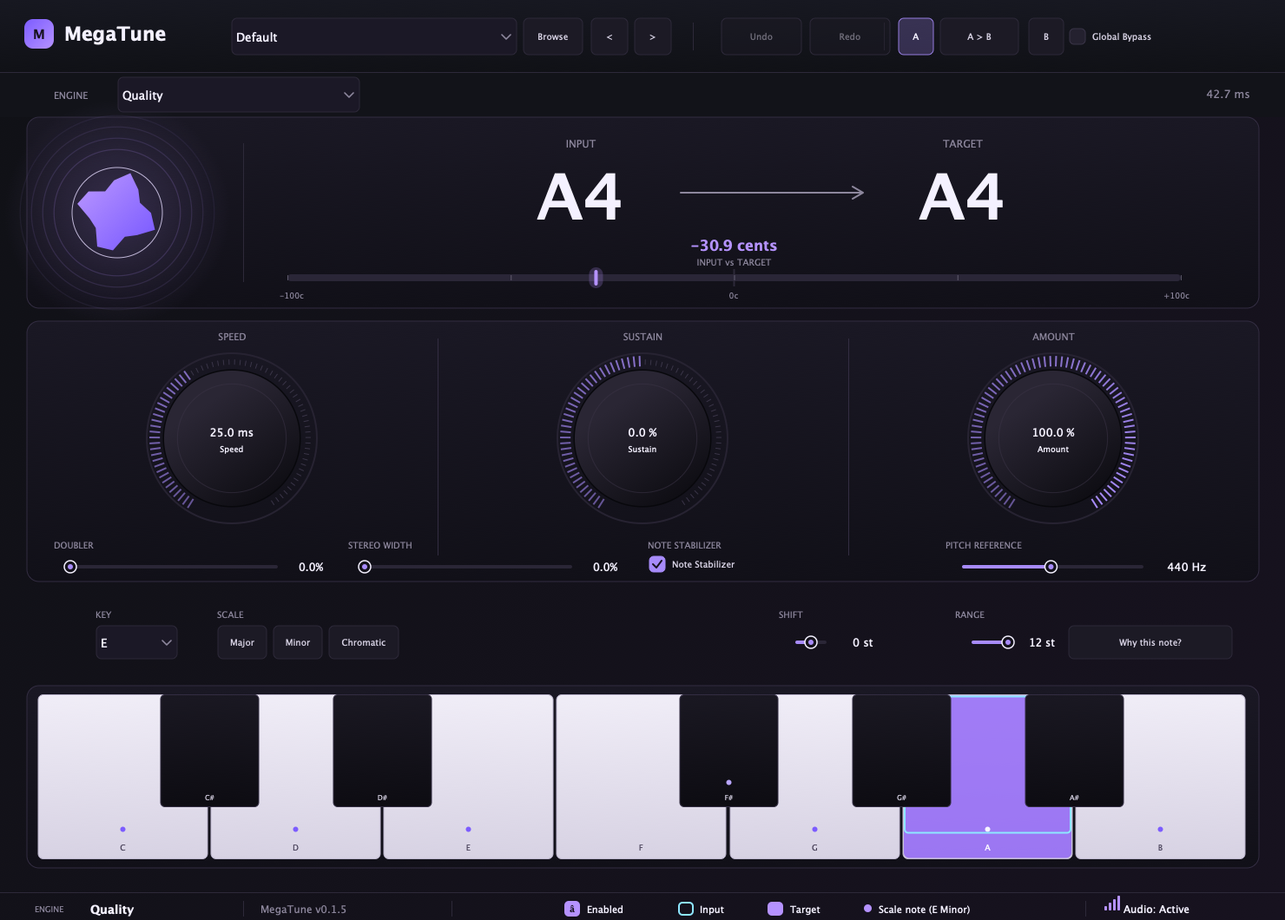
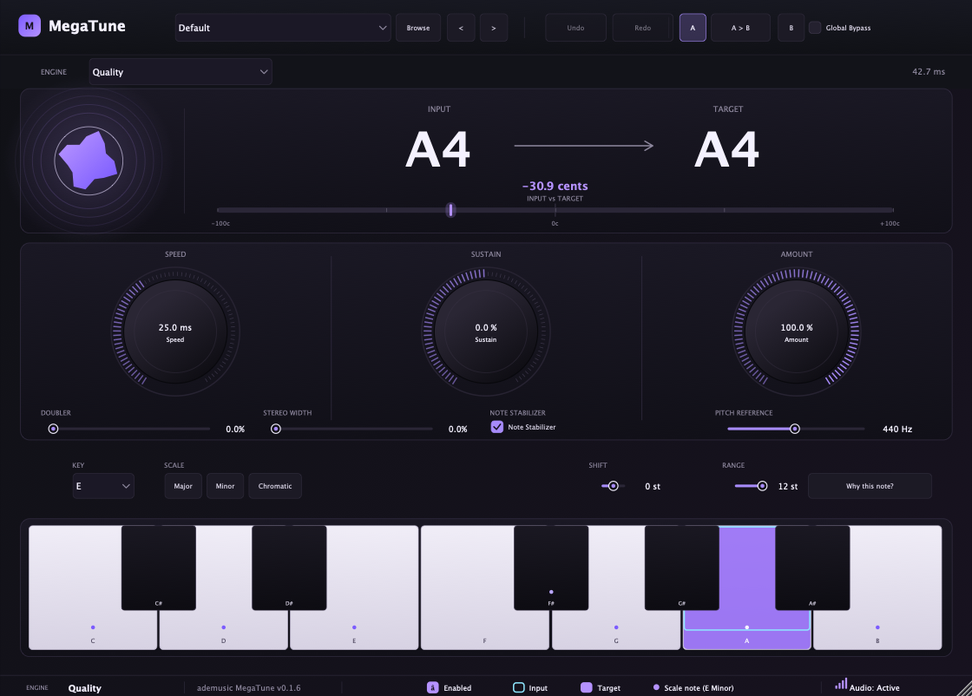
feat: resizable editor and ademusic identity for 0.1.6

diff --git a/app/vst3/Plugin.cpp b/app/vst3/Plugin.cpp
@@ -409,15 +409,21 @@ private:
  MegaTune& proc;juce::TextButton close{"X"},cancel{"Cancel"},load{"Load preset"};juce::TextEditor search;
  juce::Component listContent;juce::Viewport list;juce::OwnedArray<PresetRow> rows;
 };
+class Canvas final:public juce::Component {
+public:
+ std::function<void(juce::Graphics&)> onPaint;std::function<void()> onResized;
+ void paint(juce::Graphics& g)override{if(onPaint)onPaint(g);}
+ void resized()override{if(onResized)onResized();}
+};
 class Editor final:public juce::AudioProcessorEditor,private juce::Timer {
- TunerLook tunerLook;MegaTune& proc;juce::Slider speed,sustain,amount,doubler,width,reference,shift,range;juce::ComboBox presets;juce::ToggleButton bypass{"Global Bypass"},stabilize{"Note Stabilizer"},lowLatency{"Low Latency"};juce::ComboBox key;int displayedKey=-1;std::unique_ptr<juce::AudioProcessorValueTreeState::ComboBoxAttachment> keyAttachment;juce::TextButton major{"Major"},minor{"Minor"},chromatic{"Chromatic"};
+ TunerLook tunerLook;Canvas canvas;MegaTune& proc;juce::Slider speed,sustain,amount,doubler,width,reference,shift,range;juce::ComboBox presets;juce::ToggleButton bypass{"Global Bypass"},stabilize{"Note Stabilizer"},lowLatency{"Low Latency"};juce::ComboBox key;int displayedKey=-1;std::unique_ptr<juce::AudioProcessorValueTreeState::ComboBoxAttachment> keyAttachment;juce::TextButton major{"Major"},minor{"Minor"},chromatic{"Chromatic"};
  struct Sound {std::vector<float> values;int program=0;};
  juce::TextButton previous{"<"},next{">"},undo{"Undo"},redo{"Redo"},slotA{"A"},slotB{"B"},copyAB{"A > B"};juce::TextButton why{"Why this note?"},browse{"Browse"};bool showWhy=false;int selSeq=-1,selectedPc=-1,shownProgram=-1;HistoryPanel historyPanel;PresetBrowser presetBrowser;juce::Label experimental;juce::ComboBox enginePick;int shownEngine=-1;
  Sound comparison[2],observed;std::vector<Sound> past,future;int activeSlot=0;
  float animationTime=0,smoothedLevel=0;
  Sound capture()const{Sound sound;sound.program=proc.getCurrentProgram();for(auto* p:proc.getParameters())sound.values.push_back(p->getValue());return sound;}
  bool same(const Sound& a,const Sound& b)const{return a.program==b.program&&a.values==b.values;}
- void restore(const Sound& sound){proc.currentProgram=sound.program;auto& parameters=proc.getParameters();for(size_t i=0;i<sound.values.size()&&i<(size_t)parameters.size();++i){parameters[(int)i]->beginChangeGesture();parameters[(int)i]->setValueNotifyingHost(sound.values[i]);parameters[(int)i]->endChangeGesture();}observed=capture();repaint();}
+ void restore(const Sound& sound){proc.currentProgram=sound.program;auto& parameters=proc.getParameters();for(size_t i=0;i<sound.values.size()&&i<(size_t)parameters.size();++i){parameters[(int)i]->beginChangeGesture();parameters[(int)i]->setValueNotifyingHost(sound.values[i]);parameters[(int)i]->endChangeGesture();}observed=capture();canvas.repaint();}
  void remember(){auto now=capture();if(!same(now,observed)){past.push_back(observed);if(past.size()>100)past.erase(past.begin());future.clear();observed=now;}}
  void edit(const std::function<void()>& action){remember();auto before=capture();action();auto after=capture();if(!same(before,after)){past.push_back(before);future.clear();}observed=after;}
  void compare(int slot){comparison[activeSlot]=capture();activeSlot=slot;restore(comparison[slot]);past.clear();future.clear();}
@@ -427,14 +433,14 @@ class Editor final:public juce::AudioProcessorEditor,private juce::Timer {
  void setSelectedPc(int pc){if(pc==selectedPc)return;selectedPc=pc;for(auto& note:notes)note.repaint();}
  void refreshHistory(){const int seq=proc.historySeq.load();if(selSeq>=seq)selSeq=seq-1;if(selSeq<0&&seq>0)selSeq=seq-1;if(selSeq>=0&&seq-selSeq>16)selSeq=seq-1;historyPanel.refresh(proc,selSeq);setSelectedPc(historyPanel.actionPc);}
  void openHistory(){if(showWhy)return;showWhy=true;selSeq=proc.historySeq.load()-1;why.setButtonText("Close");why.setVisible(false);resized();
-  refreshHistory();historyPanel.setVisible(true);historyPanel.toFront(false);historyPanel.grabKeyboardFocus();repaint();}
+  refreshHistory();historyPanel.setVisible(true);historyPanel.toFront(false);historyPanel.grabKeyboardFocus();canvas.repaint();}
  void closeHistory(){if(!showWhy)return;showWhy=false;selSeq=-1;setSelectedPc(-1);historyPanel.setVisible(false);
-  why.setButtonText("Why this note?");why.setVisible(true);resized();why.grabKeyboardFocus();repaint();}
+  why.setButtonText("Why this note?");why.setVisible(true);resized();why.grabKeyboardFocus();canvas.repaint();}
  void setTargetEnabled(int pc,bool enable){const int root=(int)proc.value("key");const int degree=((pc-root)%12+12)%12;
   auto* parameter=proc.state.getParameter("note"+juce::String(degree));if(parameter==nullptr)return;
   if((parameter->getValue()>.5f)==enable)return;
   edit([&]{parameter->beginChangeGesture();parameter->setValueNotifyingHost(enable?1.f:0.f);parameter->endChangeGesture();});
-  refreshHistory();repaint();}
+  refreshHistory();canvas.repaint();}
  void timerCallback()override{animationTime+=1.f/30.f;smoothedLevel+=(juce::jlimit(0.f,1.f,proc.level.load()*2)-smoothedLevel)*.18f;
  const float detected=proc.pitch.load();const int target=megatune::currentTargetNote(proc);
  const int ip=detected>0?(((int)std::lround(detected))%12+12)%12:-1;
@@ -447,14 +453,14 @@ class Editor final:public juce::AudioProcessorEditor,private juce::Timer {
  experimental.setVisible(wantEngine==3||wantEngine==4);
  undo.setEnabled(!past.empty());redo.setEnabled(!future.empty());slotA.setToggleState(activeSlot==0,juce::dontSendNotification);slotB.setToggleState(activeSlot==1,juce::dontSendNotification);
  const int program=proc.getCurrentProgram();if(program!=shownProgram){shownProgram=program;presets.setSelectedId(program+1,juce::dontSendNotification);}
- syncKey();repaint(31,135,(showWhy?844:1419),220);repaint(0,1028,1480,32);}
+ syncKey();canvas.repaint(31,135,(showWhy?844:1419),220);canvas.repaint(0,1028,1480,32);}
  void setScale(bool isMinor,bool all){const int scaleMajor[]={0,2,4,5,7,9,11};const int scaleMinor[]={0,2,3,5,7,8,10};for(int i=0;i<12;++i){bool selected=all;for(int j=0;j<7;++j)if(i==(isMinor?scaleMinor[j]:scaleMajor[j]))selected=true;auto* p=proc.state.getParameter("note"+juce::String(i));p->beginChangeGesture();p->setValueNotifyingHost(selected?1.f:0.f);p->endChangeGesture();}}
 public:
  void tick(){timerCallback();}
- Editor(MegaTune& p):AudioProcessorEditor(p),proc(p),presetBrowser(p){setLookAndFeel(&tunerLook);setSize(1480,1060);auto setup=[&](juce::Slider& s,const char* id){addAndMakeVisible(s);s.setLookAndFeel(&tunerLook);s.textFromValueFunction=[](double value){return juce::String(value,1);};s.setNumDecimalPlacesToDisplay(1);s.setDoubleClickReturnValue(true,proc.state.getParameter(id)->convertFrom0to1(proc.state.getParameter(id)->getDefaultValue()));s.setColour(juce::Slider::thumbColourId,juce::Colour(0xffbb8de9));s.setSliderStyle(juce::Slider::RotaryHorizontalVerticalDrag);s.setTextBoxStyle(juce::Slider::TextBoxBelow,false,75,22);s.setColour(juce::Slider::rotarySliderFillColourId,juce::Colour(0xffc48cea));s.setColour(juce::Slider::rotarySliderOutlineColourId,juce::Colour(0xff343137));s.setColour(juce::Slider::textBoxOutlineColourId,juce::Colours::transparentBlack);s.setColour(juce::Slider::textBoxTextColourId,juce::Colour(0xfff4f1ff));s.setColour(juce::Slider::textBoxBackgroundColourId,juce::Colours::transparentBlack);auto attachment=std::make_unique<SA>(proc.state,id,s);s.textFromValueFunction=[](double value){return juce::String(value,1);};s.updateText();return attachment;};a=setup(speed,"speed");b=setup(sustain,"sustain");c=setup(amount,"amount");da=setup(doubler,"doubler");wa=setup(width,"width");ra=setup(reference,"reference");sa=setup(shift,"shift");rga=setup(range,"range");for(auto* slider:{&doubler,&width}){slider->setSliderStyle(juce::Slider::LinearHorizontal);slider->setTextBoxStyle(juce::Slider::TextBoxRight,false,38,20);slider->setTextValueSuffix("%");}reference.setSliderStyle(juce::Slider::LinearHorizontal);reference.setTextBoxStyle(juce::Slider::TextBoxRight,false,62,20);reference.setTextValueSuffix(" Hz");reference.textFromValueFunction=[](double v){return juce::String(v,0);};reference.updateText();doubler.setName("Doubler");width.setName("Width");reference.setName("Reference");shift.setSliderStyle(juce::Slider::LinearHorizontal);shift.setTextBoxStyle(juce::Slider::TextBoxRight,false,46,20);shift.setTextValueSuffix(" st");shift.textFromValueFunction=[](double v){return juce::String((int)std::lround(v));};shift.updateText();shift.setName("Shift");range.setSliderStyle(juce::Slider::LinearHorizontal);range.setTextBoxStyle(juce::Slider::TextBoxRight,false,40,20);range.setTextValueSuffix(" st");range.textFromValueFunction=[](double v){return juce::String((int)std::lround(v));};range.updateText();range.setName("Range");
- addAndMakeVisible(presets);for(int i=0;i<proc.getNumPrograms();++i)presets.addItem(proc.getProgramName(i),i+1);presets.setSelectedId(proc.getCurrentProgram()+1,juce::dontSendNotification);presets.onChange=[this]{edit([&]{proc.setCurrentProgram(presets.getSelectedId()-1);});};
+ Editor(MegaTune& p):AudioProcessorEditor(p),proc(p),presetBrowser(p){setLookAndFeel(&tunerLook);addAndMakeVisible(canvas);canvas.onPaint=[this](juce::Graphics& g){paintCanvas(g);};canvas.onResized=[this]{layoutCanvas();};setSize(1120,802);auto setup=[&](juce::Slider& s,const char* id){addAndMakeVisible(s);s.setLookAndFeel(&tunerLook);s.textFromValueFunction=[](double value){return juce::String(value,1);};s.setNumDecimalPlacesToDisplay(1);s.setDoubleClickReturnValue(true,proc.state.getParameter(id)->convertFrom0to1(proc.state.getParameter(id)->getDefaultValue()));s.setColour(juce::Slider::thumbColourId,juce::Colour(0xffbb8de9));s.setSliderStyle(juce::Slider::RotaryHorizontalVerticalDrag);s.setTextBoxStyle(juce::Slider::TextBoxBelow,false,75,22);s.setColour(juce::Slider::rotarySliderFillColourId,juce::Colour(0xffc48cea));s.setColour(juce::Slider::rotarySliderOutlineColourId,juce::Colour(0xff343137));s.setColour(juce::Slider::textBoxOutlineColourId,juce::Colours::transparentBlack);s.setColour(juce::Slider::textBoxTextColourId,juce::Colour(0xfff4f1ff));s.setColour(juce::Slider::textBoxBackgroundColourId,juce::Colours::transparentBlack);auto attachment=std::make_unique<SA>(proc.state,id,s);s.textFromValueFunction=[](double value){return juce::String(value,1);};s.updateText();return attachment;};a=setup(speed,"speed");b=setup(sustain,"sustain");c=setup(amount,"amount");da=setup(doubler,"doubler");wa=setup(width,"width");ra=setup(reference,"reference");sa=setup(shift,"shift");rga=setup(range,"range");for(auto* slider:{&doubler,&width}){slider->setSliderStyle(juce::Slider::LinearHorizontal);slider->setTextBoxStyle(juce::Slider::TextBoxRight,false,38,20);slider->setTextValueSuffix("%");}reference.setSliderStyle(juce::Slider::LinearHorizontal);reference.setTextBoxStyle(juce::Slider::TextBoxRight,false,62,20);reference.setTextValueSuffix(" Hz");reference.textFromValueFunction=[](double v){return juce::String(v,0);};reference.updateText();doubler.setName("Doubler");width.setName("Width");reference.setName("Reference");shift.setSliderStyle(juce::Slider::LinearHorizontal);shift.setTextBoxStyle(juce::Slider::TextBoxRight,false,46,20);shift.setTextValueSuffix(" st");shift.textFromValueFunction=[](double v){return juce::String((int)std::lround(v));};shift.updateText();shift.setName("Shift");range.setSliderStyle(juce::Slider::LinearHorizontal);range.setTextBoxStyle(juce::Slider::TextBoxRight,false,40,20);range.setTextValueSuffix(" st");range.textFromValueFunction=[](double v){return juce::String((int)std::lround(v));};range.updateText();range.setName("Range");
+ addAndMakeVisible(presets);presets.setComponentID("preset-combo");for(int i=0;i<proc.getNumPrograms();++i)presets.addItem(proc.getProgramName(i),i+1);presets.setSelectedId(proc.getCurrentProgram()+1,juce::dontSendNotification);presets.onChange=[this]{edit([&]{proc.setCurrentProgram(presets.getSelectedId()-1);});};
  addAndMakeVisible(browse);browse.setComponentID("preset-browse");browse.onClick=[this]{presetBrowser.show();};
- addChildComponent(presetBrowser);presetBrowser.setVisible(false);presetBrowser.onLoad=[this](int index){edit([&]{proc.setCurrentProgram(index);});};presetBrowser.onClose=[this]{repaint();};
+ addChildComponent(presetBrowser);presetBrowser.setVisible(false);presetBrowser.onLoad=[this](int index){edit([&]{proc.setCurrentProgram(index);});};presetBrowser.onClose=[this]{canvas.repaint();};
  for(auto* button:{&previous,&next,&undo,&redo,&slotA,&slotB,&copyAB})addAndMakeVisible(button);
  previous.setTooltip("Previous factory preset");next.setTooltip("Next factory preset");copyAB.setTooltip("Copy the current sound to the other comparison slot");
  previous.onClick=[this]{edit([&]{proc.setCurrentProgram((proc.getCurrentProgram()+proc.getNumPrograms()-1)%proc.getNumPrograms());});};next.onClick=[this]{edit([&]{proc.setCurrentProgram((proc.getCurrentProgram()+1)%proc.getNumPrograms());});};
@@ -463,7 +469,7 @@ public:
  slotA.onClick=[this]{if(activeSlot!=0)compare(0);};slotB.onClick=[this]{if(activeSlot!=1)compare(1);};copyAB.onClick=[this]{comparison[1-activeSlot]=capture();};
  speed.setName("Speed");sustain.setName("Sustain");amount.setName("Amount");speed.textFromValueFunction=[](double v){return juce::String(v,1)+" ms";};sustain.textFromValueFunction=[](double v){return juce::String(v,1)+" %";};amount.textFromValueFunction=[](double v){return juce::String(v,1)+" %";};speed.updateText();sustain.updateText();amount.updateText();speed.setComponentID("control-speed");sustain.setComponentID("control-sustain");amount.setComponentID("control-amount");doubler.setComponentID("control-doubler");width.setComponentID("control-width");reference.setComponentID("control-reference");stabilize.setComponentID("control-stabilize");undo.setComponentID("undo-button");for(auto* v:{&bypass,&stabilize,&lowLatency})addAndMakeVisible(v);d=std::make_unique<BA>(proc.state,"bypass",bypass);e=std::make_unique<BA>(proc.state,"stabilize",stabilize);ll=std::make_unique<BA>(proc.state,"lowlatency",lowLatency);
  const char* names[]={"C","C#","D","D#","E","F","F#","G","G#","A","A#","B"};for(int i=0;i<12;++i){addAndMakeVisible(notes[i]);notes[i].setButtonText(names[i]);notes[i].setClickingTogglesState(true);bool black=i==1||i==3||i==6||i==8||i==10;notes[i].blackKey=black;na[i]=std::make_unique<BA>(proc.state,"note"+juce::String(i),notes[i]);}
- addAndMakeVisible(key);const char* roots[]={"C","C#","D","D#","E","F","F#","G","G#","A","A#","B"};for(int i=0;i<12;++i)key.addItem(roots[i],i+1);keyAttachment=std::make_unique<juce::AudioProcessorValueTreeState::ComboBoxAttachment>(proc.state,"key",key);key.onChange=[this]{syncKey();repaint();};
+ addAndMakeVisible(key);const char* roots[]={"C","C#","D","D#","E","F","F#","G","G#","A","A#","B"};for(int i=0;i<12;++i)key.addItem(roots[i],i+1);keyAttachment=std::make_unique<juce::AudioProcessorValueTreeState::ComboBoxAttachment>(proc.state,"key",key);key.onChange=[this]{syncKey();canvas.repaint();};
  for(auto* v:{&major,&minor,&chromatic})addAndMakeVisible(v);major.onClick=[this]{setScale(false,false);};minor.onClick=[this]{setScale(true,false);};chromatic.onClick=[this]{setScale(false,true);};
  addAndMakeVisible(enginePick);addAndMakeVisible(why);why.setTooltip("Recent pitch decisions");addAndMakeVisible(historyPanel);historyPanel.setVisible(false);historyPanel.setWantsKeyboardFocus(true);
  historyPanel.onClose=[this]{closeHistory();};historyPanel.onSelect=[this](int row){selSeq=proc.historySeq.load()-1-row;refreshHistory();};
@@ -473,14 +479,23 @@ public:
  enginePick.addItem("Quality",1);enginePick.addItem("Low Latency",2);enginePick.addItem("TD-PSOLA (experimental)",3);enginePick.addItem("Signalsmith (experimental)",4);enginePick.setSelectedId(1,juce::dontSendNotification);enginePick.onChange=[this]{const int id=enginePick.getSelectedId();auto setP=[&](const char* pid,float v){auto* pr=proc.state.getParameter(pid);pr->beginChangeGesture();pr->setValueNotifyingHost(v);pr->endChangeGesture();};setP("lowlatency",id==2?1.f:0.f);setP("engine",id==3?1.f:0.f);setP("smith",id==4?1.f:0.f);};
  auto styleCombo=[&](juce::ComboBox& c){c.setColour(juce::ComboBox::backgroundColourId,juce::Colour(0xff1b1826));c.setColour(juce::ComboBox::textColourId,juce::Colour(0xfff4f1ff));c.setColour(juce::ComboBox::arrowColourId,juce::Colour(0xff8d879d));c.setColour(juce::ComboBox::outlineColourId,juce::Colour(0xff2d2939));};
  styleCombo(presets);styleCombo(key);styleCombo(enginePick);
+ // Move the complete UI tree onto the scalable canvas.
+ for(int i=getNumChildComponents();--i>=0;){auto* child=getChildComponent(i);if(child!=&canvas)canvas.addChildComponent(child);}
+ setResizeLimits(740,530,1480,1060);setResizable(true,true);if(auto* c=getConstrainer())c->setFixedAspectRatio(1480.0/1060.0);
  observed=capture();comparison[0]=comparison[1]=observed;resized();timerCallback();startTimerHz(30);}
  ~Editor()override{stopTimer();for(auto* slider:{&speed,&sustain,&amount,&doubler,&width,&reference,&shift,&range})slider->setLookAndFeel(nullptr);setLookAndFeel(nullptr);}
  void resized()override{
+  const float scale=juce::jmin(getWidth()/1480.f,getHeight()/1060.f);
+  const float x=(getWidth()-1480.f*scale)*.5f,y=(getHeight()-1060.f*scale)*.5f;
+  canvas.setBounds(0,0,1480,1060);canvas.setTransform(juce::AffineTransform::scale(scale).translated(x,y));layoutCanvas();
+ }
+ void paint(juce::Graphics& g)override{g.fillAll(juce::Colour(0xff0b0c10));}
+ void layoutCanvas(){
   presets.setBounds(266,20,330,44);browse.setBounds(602,20,70,44);previous.setBounds(680,20,44,44);next.setBounds(730,20,44,44);
   undo.setBounds(830,20,94,44);redo.setBounds(932,20,94,44);
   slotA.setBounds(1034,20,42,44);copyAB.setBounds(1082,20,92,44);slotB.setBounds(1184,20,42,44);
   bypass.setBounds(1230,20,220,44);
-  presetBrowser.setBounds(getLocalBounds());
+  presetBrowser.setBounds(0,0,1480,1060);
   enginePick.setBounds(135,88,280,42);
   experimental.setBounds(426,100,140,18);
   const int cr=showWhy?875:1450;const int cw=cr-31;const int col=cw/3;const int knobY=400,knob=210;
@@ -501,7 +516,7 @@ public:
   const int black[]={1,3,6,8,10};const int gaps[]={1,2,4,5,6};
   for(int j=0;j<5;++j){const int bx=(int)(px+12+gaps[j]*kw-kw*.29f);notes[black[j]].setBounds(bx,py+10,(int)(kw*.58f),ph*.62f);notes[black[j]].toFront(false);}
  }
- void paint(juce::Graphics& g)override{
+ void paintCanvas(juce::Graphics& g){
   const auto ink=juce::Colour(0xfff4f1ff),muted=juce::Colour(0xff8d879d),accent=juce::Colour(0xffb592ff),accentDeep=juce::Colour(0xff7c5cff),line=juce::Colour(0xff2d2939);
   juce::ColourGradient background(juce::Colour(0xff101116),0,0,juce::Colour(0xff17121f),1480,1060,false);g.setGradientFill(background);g.fillAll();
   juce::ColourGradient bar(juce::Colour(0xff171821),0,0,juce::Colour(0xff101116),0,84,false);g.setGradientFill(bar);g.fillRect(0,0,1480,84);
@@ -560,7 +575,7 @@ public:
   g.setColour(muted);g.setFont(juce::Font(11.f));g.drawText("ENGINE",40,1038,56,18,juce::Justification::left);
   g.setColour(ink);g.setFont(juce::Font(16.f,juce::Font::bold));g.drawText(proc.value("smith")>.5f?"Signalsmith":proc.value("engine")>.5f?"TD-PSOLA":proc.value("lowlatency")>.5f?"Low Latency":"Quality",104,1036,170,22,juce::Justification::left);
   g.setColour(line);g.fillRect(280,1038,1,18);
-  g.setColour(muted);g.setFont(juce::Font(14.f));g.drawText("MegaTune v"+juce::String(JucePlugin_VersionString),300,1036,220,22,juce::Justification::left);
+  g.setColour(muted);g.setFont(juce::Font(14.f));g.drawText("ademusic MegaTune v"+juce::String(JucePlugin_VersionString),300,1036,260,22,juce::Justification::left);
   g.setColour(line);g.fillRect(520,1038,1,18);
   const int root=(int)proc.value("key");const char* rootNames[]={"C","C#","D","D#","E","F","F#","G","G#","A","A#","B"};
   const int legY=1046;

diff --git a/app/vst3/Tests.cpp b/app/vst3/Tests.cpp
@@ -10,6 +10,8 @@
 #include <vector>
 extern juce::AudioProcessor* JUCE_CALLTYPE createPluginFilter();
 
+static juce::Component* findById(juce::Component* root,const juce::String& id){if(root->getComponentID()==id)return root;for(int i=0;i<root->getNumChildComponents();++i)if(auto* c=findById(root->getChildComponent(i),id))return c;return nullptr;}
+static void visitChildren(juce::Component* root,const std::function<void(juce::Component*)>& fn){for(int i=0;i<root->getNumChildComponents();++i){auto* c=root->getChildComponent(i);fn(c);visitChildren(c,fn);}}
 static std::atomic<bool> countAllocations{false};
 static std::atomic<int> allocationCount{0};
 void* operator new(std::size_t n){if(countAllocations.load(std::memory_order_relaxed))allocationCount.fetch_add(1,std::memory_order_relaxed);if(void* p=std::malloc(n?n:1))return p;throw std::bad_alloc();}
@@ -31,14 +33,14 @@ int main(int argc,char** argv){
    p->processBlock(b,mb);
    if(i%5==0)megatune::tickEditor(*editor);
    if(i%1000==0){
-    auto* panel=editor->findChildWithID("history-panel");
+    auto* panel=findById(editor.get(),"history-panel");
     if(panel&&panel->isVisible()){if(auto* c=panel->findChildWithID("history-close"))dynamic_cast<juce::Button*>(c)->onClick();}
-    else if(auto* w=editor->findChildWithID("why-button"))dynamic_cast<juce::Button*>(w)->onClick();
+    else if(auto* w=findById(editor.get(),"why-button"))dynamic_cast<juce::Button*>(w)->onClick();
    }
    if(i%2000==1000){
-    auto* browser=editor->findChildWithID("preset-browser");
+    auto* browser=findById(editor.get(),"preset-browser");
     if(browser&&browser->isVisible()){if(auto* l=browser->findChildWithID("preset-load"))dynamic_cast<juce::Button*>(l)->onClick();}
-    else if(auto* br=editor->findChildWithID("preset-browse"))dynamic_cast<juce::Button*>(br)->onClick();
+    else if(auto* br=findById(editor.get(),"preset-browse"))dynamic_cast<juce::Button*>(br)->onClick();
    }
    if(i%5000==0){auto shot=editor->createComponentSnapshot(editor->getLocalBounds());juce::ignoreUnused(shot);p->setCurrentProgram((p->getCurrentProgram()+1)%p->getNumPrograms());}
    for(int n=0;n<512;++n)if(!std::isfinite(b.getSample(0,n))||!std::isfinite(b.getSample(1,n)))return 2;
@@ -224,36 +226,34 @@ juce::ScopedJuceInitialiser_GUI init;std::unique_ptr<juce::AudioProcessor> p(cre
  reopened->setStateInformation(session.getData(),(int)session.getSize());
  if(reopened->getCurrentProgram()!=6){std::cerr<<"Factory program lost on session reopen\n";return 24;}
  std::unique_ptr<juce::AudioProcessorEditor> view(reopened->createEditorAndMakeActive());
- bool presetCorrect=false;for(int i=0;i<view->getNumChildComponents();++i)
- if(auto* combo=dynamic_cast<juce::ComboBox*>(view->getChildComponent(i)))
- if(combo->getNumItems()==reopened->getNumPrograms())presetCorrect=combo->getSelectedId()==7;
+ auto* presetCombo=dynamic_cast<juce::ComboBox*>(findById(view.get(),"preset-combo"));
+ const bool presetCorrect=presetCombo!=nullptr&&presetCombo->getNumItems()==reopened->getNumPrograms()&&presetCombo->getSelectedId()==7;
  if(!presetCorrect){std::cerr<<"Preset menu disagrees with host program\n";return 25;}
  // Exercise each visible switch and scale action through its actual UI callback.
  auto parameter=[&](const juce::String& id)->juce::AudioProcessorParameterWithID*{
  for(auto* value:reopened->getParameters())if(auto* identified=dynamic_cast<juce::AudioProcessorParameterWithID*>(value))if(identified->paramID==id)return identified;return nullptr;};
- for(int i=0;i<view->getNumChildComponents();++i){auto* child=view->getChildComponent(i);
- if(auto* combo=dynamic_cast<juce::ComboBox*>(child))if(combo->getNumItems()==12)combo->setSelectedId(3,juce::sendNotificationSync);
- }
+ visitChildren(view.get(),[&](juce::Component* child){if(auto* combo=dynamic_cast<juce::ComboBox*>(child))if(combo->getNumItems()==12)combo->setSelectedId(3,juce::sendNotificationSync);});
  if(std::abs(parameter("key")->getValue()-2.f/11.f)>.001f)return 26;
- for(int i=0;i<view->getNumChildComponents();++i)if(auto* button=dynamic_cast<juce::TextButton*>(view->getChildComponent(i)))
- if(button->getButtonText()=="Chromatic")button->onClick();
+ visitChildren(view.get(),[&](juce::Component* child){if(auto* button=dynamic_cast<juce::TextButton*>(child))if(button->getButtonText()=="Chromatic"&&button->onClick)button->onClick();});
  for(int i=0;i<12;++i)if(parameter("note"+juce::String(i))->getValue()!=1)return 27;
- for(int i=0;i<view->getNumChildComponents();++i)if(auto* button=dynamic_cast<juce::TextButton*>(view->getChildComponent(i)))
- if(button->getButtonText()=="C")button->setToggleState(false,juce::sendNotificationSync);
+ visitChildren(view.get(),[&](juce::Component* child){if(auto* button=dynamic_cast<juce::TextButton*>(child))if(button->getButtonText()=="C")button->setToggleState(false,juce::sendNotificationSync);});
  if(parameter("note10")->getValue()!=0 || parameter("note0")->getValue()!=1){std::cerr<<"Key change left stale keyboard wiring\n";return 28;}
- for(int i=0;i<view->getNumChildComponents();++i)if(auto* toggle=dynamic_cast<juce::ToggleButton*>(view->getChildComponent(i))){
+ int uiFailure=0;
+ visitChildren(view.get(),[&](juce::Component* child){if(auto* toggle=dynamic_cast<juce::ToggleButton*>(child)){
  toggle->setToggleState(true,juce::sendNotificationSync);
- if(toggle->getButtonText()=="Global Bypass"&&parameter("bypass")->getValue()!=1)return 29;
- if(toggle->getButtonText()=="Note Stabilizer"){toggle->setToggleState(false,juce::sendNotificationSync);if(parameter("stabilize")->getValue()!=0)return 30;}}
- for(int i=0;i<view->getNumChildComponents();++i)if(auto* slider=dynamic_cast<juce::Slider*>(view->getChildComponent(i))){
+ if(toggle->getButtonText()=="Global Bypass"&&parameter("bypass")->getValue()!=1)uiFailure=29;
+ if(toggle->getButtonText()=="Note Stabilizer"){toggle->setToggleState(false,juce::sendNotificationSync);if(parameter("stabilize")->getValue()!=0)uiFailure=30;}}});
+ if(uiFailure)return uiFailure;
+ visitChildren(view.get(),[&](juce::Component* child){if(auto* slider=dynamic_cast<juce::Slider*>(child)){
  slider->setValue(slider->getMaximum(),juce::sendNotificationSync);
- const auto id=slider->getName().toLowerCase();auto* ranged=dynamic_cast<juce::RangedAudioParameter*>(parameter(id));if(ranged==nullptr||std::abs(ranged->convertFrom0to1(ranged->getValue())-slider->getMaximum())>.01f)return 31;}
+ const auto id=slider->getName().toLowerCase();auto* ranged=dynamic_cast<juce::RangedAudioParameter*>(parameter(id));if(ranged==nullptr||std::abs(ranged->convertFrom0to1(ranged->getValue())-slider->getMaximum())>.01f)uiFailure=31;}});
+ if(uiFailure)return uiFailure;
 
  }
  // Toolbar actions must affect the actual host parameters, including A/B recall.
  {std::unique_ptr<juce::AudioProcessor> host(createPluginFilter());
  std::unique_ptr<juce::AudioProcessorEditor> view(host->createEditorAndMakeActive());
- auto click=[&](const juce::String& label){for(int i=0;i<view->getNumChildComponents();++i)if(auto* button=dynamic_cast<juce::TextButton*>(view->getChildComponent(i)))if(button->getButtonText()==label){button->onClick();return true;}return false;};
+ auto click=[&](const juce::String& label){bool did=false;visitChildren(view.get(),[&](juce::Component* child){if(!did)if(auto* button=dynamic_cast<juce::TextButton*>(child))if(button->getButtonText()==label&&button->onClick){button->onClick();did=true;}});return did;};
  if(!click(">")||host->getCurrentProgram()!=1){std::cerr<<"Next preset button missing or inactive\n";return 32;}
  if(!click("<")||host->getCurrentProgram()!=0)return 33;
  if(!click("Undo")||host->getCurrentProgram()!=1)return 34;
@@ -373,7 +373,7 @@ juce::ScopedJuceInitialiser_GUI init;std::unique_ptr<juce::AudioProcessor> p(cre
     return best>0?48000.0/best:0.0;};
   const double f0a=feed();
   auto* ed=r->createEditorIfNeeded();
-  auto click=[&](const juce::String& txt)->bool{for(int i=0;i<ed->getNumChildComponents();++i)if(auto* bt=dynamic_cast<juce::TextButton*>(ed->getChildComponent(i)))if(bt->getButtonText().startsWith(txt)){bt->onClick();return true;}return false;};
+  auto click=[&](const juce::String& txt)->bool{bool did=false;visitChildren(ed,[&](juce::Component* child){if(!did)if(auto* bt=dynamic_cast<juce::TextButton*>(child))if(bt->getButtonText().startsWith(txt)&&bt->onClick){bt->onClick();did=true;}});return did;};
   click("Why this note?");
   std::function<juce::Component*(juce::Component*,const juce::String&)> find=[&](juce::Component* root,const juce::String& id)->juce::Component*{if(root->getComponentID()==id)return root;for(int i=0;i<root->getNumChildComponents();++i)if(auto* c=find(root->getChildComponent(i),id))return c;return nullptr;};
   auto* panel=find(ed,"history-panel");
@@ -466,13 +466,13 @@ juce::ScopedJuceInitialiser_GUI init;std::unique_ptr<juce::AudioProcessor> p(cre
   if(!(q0==2048&&s1==5760&&p2==2048&&l3==128&&q4==2048)){std::cerr<<"SWITCH latency transition wrong\n";return 63;}
  }
 if(p->getName()!="MegaTune")return 1;for(auto* parameter:p->getParameters()){auto name=parameter->getName(64);if(name=="Speed")parameter->setValueNotifyingHost(rangedSpeed->convertTo0to1(0.f));if(name.length()<=2)parameter->setValueNotifyingHost(1);}
-p->prepareToPlay(48000,256);std::vector<float> steady;juce::MidiBuffer midi;juce::AudioBuffer<float> buffer(2,256);double peak=0;for(int block=0;block<200;++block){for(int i=0;i<256;++i)for(int c=0;c<2;++c)buffer.setSample(c,i,.3f*std::sin(juce::MathConstants<double>::twoPi*432*(block*256+i)/48000));p->processBlock(buffer,midi);for(int i=0;i<256;++i){float sample=buffer.getSample(0,i);if(!std::isfinite(sample)||std::abs(sample)>1)return 2;peak=juce::jmax(peak,(double)std::abs(sample));if(block>100)steady.push_back(sample);}}if(peak<.1)return 3;int bestLag=0;double bestScore=-1;for(int lag=100;lag<120;++lag){double cross=0;for(int i=0;i<16000;++i)cross+=steady[i]*steady[i+lag];if(cross>bestScore){bestScore=cross;bestLag=lag;}}double frequency=48000.0/bestLag;std::cout<<"Corrected frequency: "<<frequency<<" Hz\n";if(std::abs(frequency-440)>3)return 7;std::unique_ptr<juce::AudioProcessor> visual(createPluginFilter());std::unique_ptr<juce::AudioProcessorEditor> editor(visual->createEditorAndMakeActive());if(!editor||editor->getWidth()!=1480)return 6;
+p->prepareToPlay(48000,256);std::vector<float> steady;juce::MidiBuffer midi;juce::AudioBuffer<float> buffer(2,256);double peak=0;for(int block=0;block<200;++block){for(int i=0;i<256;++i)for(int c=0;c<2;++c)buffer.setSample(c,i,.3f*std::sin(juce::MathConstants<double>::twoPi*432*(block*256+i)/48000));p->processBlock(buffer,midi);for(int i=0;i<256;++i){float sample=buffer.getSample(0,i);if(!std::isfinite(sample)||std::abs(sample)>1)return 2;peak=juce::jmax(peak,(double)std::abs(sample));if(block>100)steady.push_back(sample);}}if(peak<.1)return 3;int bestLag=0;double bestScore=-1;for(int lag=100;lag<120;++lag){double cross=0;for(int i=0;i<16000;++i)cross+=steady[i]*steady[i+lag];if(cross>bestScore){bestScore=cross;bestLag=lag;}}double frequency=48000.0/bestLag;std::cout<<"Corrected frequency: "<<frequency<<" Hz\n";if(std::abs(frequency-440)>3)return 7;std::unique_ptr<juce::AudioProcessor> visual(createPluginFilter());std::unique_ptr<juce::AudioProcessorEditor> editor(visual->createEditorAndMakeActive());if(!editor||editor->getWidth()!=1120)return 6;
  auto pumpEditor=[&]{megatune::tickEditor(*editor);};
- auto* speedControl=editor->findChildWithID("control-speed");
- auto* experimental=editor->findChildWithID("experimental-label");
+ auto* speedControl=findById(editor.get(),"control-speed");
+ auto* experimental=findById(editor.get(),"experimental-label");
  if(!speedControl||!experimental){std::cerr<<"Editor control IDs missing\n";return 64;}
  if(experimental->isVisible()){std::cerr<<"Experimental label shown for Quality\n";return 65;}
- auto clickButton=[&](const juce::String& label){for(int i=0;i<editor->getNumChildComponents();++i)if(auto* button=dynamic_cast<juce::TextButton*>(editor->getChildComponent(i)))if(button->getButtonText()==label){button->onClick();return true;}return false;};
+ auto clickButton=[&](const juce::String& label){bool did=false;visitChildren(editor.get(),[&](juce::Component* child){if(!did)if(auto* button=dynamic_cast<juce::TextButton*>(child))if(button->getButtonText()==label&&button->onClick){button->onClick();did=true;}});return did;};
  auto paramById=[&](const juce::String& id)->juce::AudioProcessorParameterWithID*{for(auto* value:visual->getParameters())if(auto* identified=dynamic_cast<juce::AudioProcessorParameterWithID*>(value))if(identified->paramID==id)return identified;return nullptr;};
  auto writeShot=[&](const juce::String& name){auto shot=editor->createComponentSnapshot(editor->getLocalBounds());juce::File f=juce::File::getCurrentWorkingDirectory().getChildFile(name);f.deleteFile();juce::FileOutputStream stream(f);juce::PNGImageFormat png2;png2.writeImageToStream(shot,stream);};
  writeShot("MegaTune-vst3-idle.png");
@@ -480,10 +480,10 @@ p->prepareToPlay(48000,256);std::vector<float> steady;juce::MidiBuffer midi;juce
  pumpEditor();writeShot("MegaTune-vst3-active.png");writeShot("MegaTune-vst3.png");
  const float speedBefore=paramById("speed")->getValue();
  if(!clickButton("Why this note?")){std::cerr<<"Why this note action missing\n";return 66;}
- auto* panel=editor->findChildWithID("history-panel");
+ auto* panel=findById(editor.get(),"history-panel");
  if(!panel||!panel->isVisible()){std::cerr<<"History panel did not open\n";return 67;}
  for(const char* id:{"control-speed","control-sustain","control-amount","control-doubler","control-width","control-reference","control-stabilize"})
-  {auto* control=editor->findChildWithID(id);if(!control||!control->isVisible()){std::cerr<<"Side-by-side control hidden: "<<id<<"\n";return 68;}}
+  {auto* control=findById(editor.get(),id);if(!control||!control->isVisible()){std::cerr<<"Side-by-side control hidden: "<<id<<"\n";return 68;}}
  pumpEditor();
  auto* row0=panel->findChildWithID("history-row-0");
  auto* enableButton=panel->findChildWithID("history-enable");
@@ -497,7 +497,7 @@ p->prepareToPlay(48000,256);std::vector<float> steady;juce::MidiBuffer midi;juce
  if(targetBefore!=69){std::cerr<<"Expected A4 target, got "<<targetBefore<<"\n";return 71;}
  dynamic_cast<juce::Button*>(excludeButton)->onClick();pumpEditor();
  auto* noteA=paramById("note5");if(!noteA||noteA->getValue()>.5f){std::cerr<<"Excluding A did not clear its mask bit\n";return 72;}
- auto* undoButton=editor->findChildWithID("undo-button");if(!undoButton||!undoButton->isEnabled()){std::cerr<<"Exclude did not enter Undo history\n";return 73;}
+ auto* undoButton=findById(editor.get(),"undo-button");if(!undoButton||!undoButton->isEnabled()){std::cerr<<"Exclude did not enter Undo history\n";return 73;}
  {juce::MidiBuffer mb;juce::AudioBuffer<float> b(2,256);for(int blk=0;blk<40;++blk){for(int i2=0;i2<256;++i2)for(int c2=0;c2<2;++c2)b.setSample(c2,i2,.3f*std::sin(juce::MathConstants<double>::twoPi*432*(blk*256+i2)/48000));visual->processBlock(b,mb);}}
  const int seqAfter=megatune::historySequence(*visual);
  const int targetAfter=megatune::historyDecision(*visual,seqAfter-1).target;
@@ -517,13 +517,16 @@ p->prepareToPlay(48000,256);std::vector<float> steady;juce::MidiBuffer midi;juce
  dynamic_cast<juce::Button*>(closeButton)->onClick();
  if(panel->isVisible()||!speedControl->isVisible()){std::cerr<<"Close did not restore covered controls\n";return 80;}
  for(const char* id:{"control-sustain","control-amount","control-doubler","control-width","control-reference","control-stabilize"})
-  {auto* covered=editor->findChildWithID(id);if(!covered||!covered->isVisible()){std::cerr<<"Close did not restore: "<<id<<"\n";return 82;}}
+  {auto* covered=findById(editor.get(),id);if(!covered||!covered->isVisible()){std::cerr<<"Close did not restore: "<<id<<"\n";return 82;}}
  if(std::abs(paramById("speed")->getValue()-speedBefore)>.0001f){std::cerr<<"Close changed a control value\n";return 81;}
- auto* browse=editor->findChildWithID("preset-browse");if(!browse){std::cerr<<"Preset browser button missing\n";return 108;}
+ auto* browse=findById(editor.get(),"preset-browse");if(!browse){std::cerr<<"Preset browser button missing\n";return 108;}
  dynamic_cast<juce::Button*>(browse)->onClick();
- auto* browser=editor->findChildWithID("preset-browser");if(!browser||!browser->isVisible()){std::cerr<<"Preset browser did not open\n";return 109;}
+ auto* browser=findById(editor.get(),"preset-browser");if(!browser||!browser->isVisible()){std::cerr<<"Preset browser did not open\n";return 109;}
  writeShot("MegaTune-vst3-presets.png");
  dynamic_cast<juce::Button*>(browser->findChildWithID("preset-load"))->onClick();
+ if(!editor->isResizable()){std::cerr<<"Editor is not resizable\n";return 110;}
+ editor->setSize(800,573);if(editor->getWidth()!=800||editor->getHeight()!=573){std::cerr<<"Editor resize failed\n";return 111;}
+ editor->setSize(1120,802);
  for(auto* parameter:p->getParameters()){auto* identified=dynamic_cast<juce::AudioProcessorParameterWithID*>(parameter);if(identified&&identified->paramID.startsWith("note"))parameter->setValueNotifyingHost(identified->paramID=="note6"?1.f:0.f);}steady.clear();for(int block=0;block<200;++block){for(int i=0;i<256;++i)for(int ch=0;ch<2;++ch)buffer.setSample(ch,i,.3f*std::sin(juce::MathConstants<double>::twoPi*432*(block*256+i)/48000));p->processBlock(buffer,midi);if(block>100)for(int i=0;i<256;++i)steady.push_back(buffer.getSample(0,i));}std::vector<double> sc(115,0.0);bestScore=-1;for(int lag=95;lag<112;++lag){double cross=0;for(int i=0;i<16000;++i)cross+=steady[i]*steady[i+lag];sc[lag]=cross;if(cross>bestScore){bestScore=cross;bestLag=lag;}}const double den=sc[bestLag-1]-2*sc[bestLag]+sc[bestLag+1];const double off=std::abs(den)>1e-12?std::clamp(.5*(sc[bestLag-1]-sc[bestLag+1])/den,-.5,.5):0.0;frequency=48000.0/(bestLag+off);std::cout<<"Disabled-target stabilizer frequency: "<<frequency<<" Hz\n";if(std::abs(frequency-466.16)>4)return 8;rangedSpeed->setValueNotifyingHost(rangedSpeed->convertTo0to1(25));rangedAmount->setValueNotifyingHost(rangedAmount->convertTo0to1(75));
  juce::MemoryBlock state;p->getStateInformation(state);if(state.getSize()==0)return 4;std::unique_ptr<juce::AudioProcessor> restored(createPluginFilter());
  auto* restoredSpeed=dynamic_cast<juce::RangedAudioParameter*>(restored->getParameters()[1]);

diff --git a/README.md b/README.md
@@ -1,17 +1,17 @@
-# MegaTune
+# ademusic MegaTune
 
 A clean-room reconstruction of the **Slate Digital MetaTune** vocal tuner: a JUCE VST3 +
 AUv2 plug-in with a live pitch monitor, a diagnostic "Why this note?" history, four
 selectable pitch engines, factory presets and a fully themed editor.
 
-> **Status: 0.1.5 (experimental).** Pitch correction, latency reporting,
+> **Status: 0.1.6 (experimental).** Pitch correction, latency reporting,
 > presets, automation and the exclude/undo workflow are verified. **Formant preservation is
 > unvalidated** and the build is **ad-hoc signed, not notarized**. See [Status](#status)
 > before shipping anything.
 >
-> 0.1.5 is a stability pass over the 1480×1060 editor: the 30 Hz full-window repaint is
-> replaced with targeted monitor/footer repaints, the preset-browser viewport is destroyed
-> safely, and a 50k-block UI/audio soak passed native and under ASan. It keeps AUv2 + VST3.
+> 0.1.6 makes the 1480×1060 editor scale into a **resizable 1120×802 default window**
+> (fixed aspect, minimum 740×530), so it fits Logic and smaller displays. The vendor/bundle
+> identity is now **ademusic** (`AdMs`, `com.ademusic.megatune`).
 
 ---
 
@@ -81,9 +81,9 @@ Declared latency matches measured impulse onset and cross-correlation lag at 44.
 
 ## Install
 
-Version 0.1.5 (universal arm64 + x86_64, VST3 + AUv2):
+Version 0.1.6 (universal arm64 + x86_64, VST3 + AUv2):
 
-https://github.com/ajdohaxhia/megatune/releases/tag/v0.1.5
+https://github.com/ajdohaxhia/megatune/releases/tag/v0.1.6
 
 ```bash
 # from the release archive or app/dist
@@ -179,7 +179,7 @@ Host-level checks (load, instantiate, parameters, audio, editor) run through
 
 ```bash
 MegaTuneHostCheck /path/to/MegaTune.vst3
-auval -v aufx Mgtn Crft          # after installing the AU component
+auval -v aufx Mgtn AdMs          # after installing the AU component
 ```
 
 Measurement harnesses used during development live in `app/vst3/verify/`

diff --git a/app/MECHANICS.md b/app/MECHANICS.md
@@ -1,5 +1,23 @@
 # Mechanics and evidence
 
+## 0.1.6 scalable editor and ademusic identity — 2026-11-05
+
+- The 1480×1060 design now lives on an internal `Canvas`. The editor defaults to
+  1120×802, has a fixed 1480:1060 aspect ratio, is resizable, and scales down to
+  740×530. This fits Logic and smaller screens while preserving the reference
+  composition.
+- The resize corner is created after the UI tree is moved onto the Canvas, so it
+  remains a child of the editor rather than being scaled into the UI.
+- Vendor and bundle identity changed to **ademusic**:
+  - AU manufacturer code `AdMs` (was `Crft`)
+  - bundle ID `com.ademusic.megatune` (was `com.craftanything.megatune`)
+  - AU display name `ademusic: MegaTune`
+- The installer now clears extended attributes before re-signing, which prevents
+  false “resource fork / Finder information” signature failures on iCloud paths.
+
+Validation: CTest and the full parameter-state regression pass; the AU must be
+validated with `auval -v aufx Mgtn AdMs`. The editor snapshots are now 1120×802.
+
 ## 0.1.5 long-run stability pass — 2026-11-05
 
 Two editor-side long-run hazards were removed:

diff --git a/app/dist/README.md b/app/dist/README.md
@@ -1,4 +1,4 @@
-# MegaTune 0.1.5 — VST3 + AUv2 (macOS, universal arm64 + x86_64)
+# ademusic MegaTune 0.1.6 — VST3 + AUv2 (macOS, universal arm64 + x86_64)
 
 Install: double-click `Install MegaTune.command` (or copy `MegaTune.vst3` to
 `~/Library/Audio/Plug-Ins/VST3/` and `MegaTune.component` to

diff --git a/docs/INSTALL.md b/docs/INSTALL.md
@@ -1,4 +1,4 @@
-# MegaTune 0.1.5 — VST3 + AUv2 (macOS, universal arm64 + x86_64)
+# ademusic MegaTune 0.1.6 — VST3 + AUv2 (macOS, universal arm64 + x86_64)
 
 Install: double-click `Install MegaTune.command` (or copy `MegaTune.vst3` to
 `~/Library/Audio/Plug-Ins/VST3/` and `MegaTune.component` to
